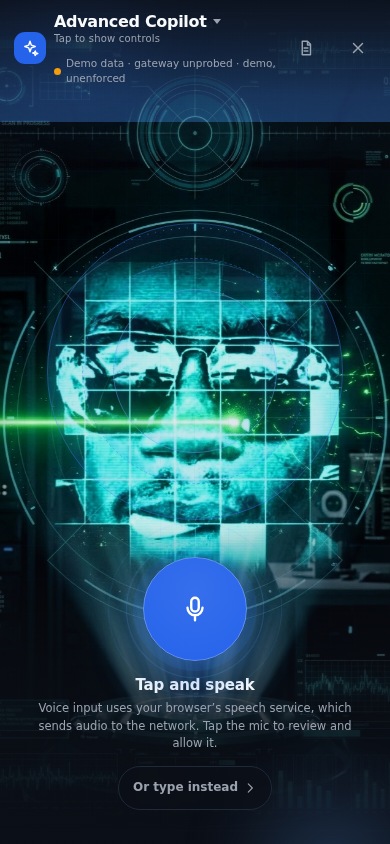
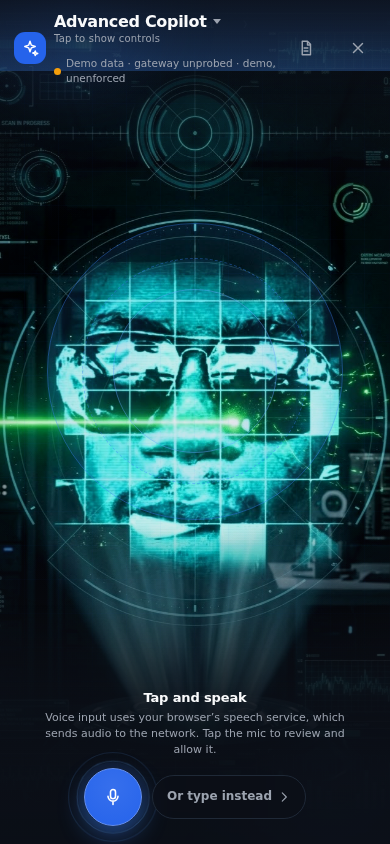
fix(copilot): shrink the stage mic and set it beside 'Or type instead'
The central microphone sat over the hologram at 104px (120px wide screens),
directly on the image's focal point. It now anchors the bottom of the stage:

- 58px (68px at >=720px), still >=44px touch target
- lives in a new .cp-voice-row flex row, side by side with the 'Or type
  instead' link instead of stacked above it
- dock bottom offset 34px -> 18px, icon 30 -> 20, halo/shadow scaled down
- caption keeps priority above the row at 13px/11px with a soft gradient
  scrim behind the dock so it stays legible over the brightest part of
  the image without boxing the stage in

Tests: design-system asserts the mic stays 44-64px and the row is
horizontal; motion asserts the mic and link share the row while the
caption stays outside it; the motion browser suite asserts at 320px that
mic and link are on one line (centres within 8px, mic left of the link)
and never overflow. Regenerated docs/design/copilot-stage-390.png.

Verified: npm test green (design 14/14, motion 22/22, responsive 17/17,
voice 48/48, smoke ok), motion/scroll/relay/voice browser suites pass,
npm run build clean.

Changed region(s): [[0.0923, 0.6469, 0.9231, 1.0], [0.0, 0.0616, 1.0, 0.154], [0.7077, 0.955, 0.9846, 1.0]]

diff --git a/src/copilot.css b/src/copilot.css
@@ -224,43 +224,69 @@
 .cp-panel[data-view='advanced'] .cp-holo-image { opacity: 0.32; }
 .cp-panel[data-view='advanced'] .cp-holo-ring { opacity: 0.28; }
 
-/* ---------- voice dock: the mic, on the stage ---------- */
+/* ---------- voice dock: the mic, set low so it never covers the hologram ----------
+ * The mic used to sit centred over the image at 104 px. It now anchors the bottom of the stage at
+ * 58 px and shares a row with the "Or type instead" link, so the hologram stays unobstructed. */
 .cp-voice-dock {
   position: absolute;
   z-index: 3;
   left: 0; right: 0;
-  bottom: calc(env(safe-area-inset-bottom, 0px) + 34px);
+  bottom: calc(env(safe-area-inset-bottom, 0px) + 18px);
   display: flex;
   flex-direction: column;
   align-items: center;
-  gap: 14px;
+  gap: 10px;
   padding: 0 20px;
   pointer-events: none;
 }
+.cp-voice-dock > * { position: relative; }
 .cp-voice-dock > * { pointer-events: auto; }
+/* Soft scrim so the caption keeps AA contrast where the hologram is brightest, without boxing the
+ * stage in. It lives inside the dock's stacking context, so it never covers the controls. */
+.cp-voice-dock::before {
+  content: '';
+  position: absolute;
+  left: 0; right: 0; bottom: -18px; top: -84px;
+  z-index: -1;
+  pointer-events: none;
+  background: linear-gradient(
+    to bottom,
+    transparent 0%,
+    color-mix(in srgb, var(--bg-base) 62%, transparent) 42%,
+    color-mix(in srgb, var(--bg-base) 88%, transparent) 78%,
+    color-mix(in srgb, var(--bg-base) 94%, transparent) 100%
+  );
+}
+.cp-voice-row {
+  display: flex;
+  align-items: center;
+  justify-content: center;
+  gap: 10px;
+}
 .cp-panel[data-view='advanced'] .cp-voice-dock { display: none; }
 
 .cp-mic {
   position: relative;
-  width: 104px; height: 104px;
+  width: 58px; height: 58px;
+  flex: none;
   border-radius: 50%;
   display: grid;
   place-items: center;
   color: var(--text-on-accent);
   background: radial-gradient(circle at 50% 32%, color-mix(in srgb, var(--accent-hover) 92%, var(--text-primary)), var(--accent-hover));
   border: 1px solid color-mix(in srgb, var(--accent-hover) 70%, var(--text-primary));
-  box-shadow: 0 18px 48px color-mix(in srgb, var(--accent-primary) 55%, transparent),
-              0 0 0 10px color-mix(in srgb, var(--accent-primary) 12%, transparent);
+  box-shadow: 0 10px 26px color-mix(in srgb, var(--accent-primary) 42%, transparent),
+              0 0 0 6px color-mix(in srgb, var(--accent-primary) 10%, transparent);
   touch-action: manipulation;
 }
 .cp-mic-ico { position: relative; z-index: 2; display: grid; place-items: center; }
 .cp-mic-halo {
-  position: absolute; inset: -14px; border-radius: 50%;
+  position: absolute; inset: -7px; border-radius: 50%;
   border: 1px solid color-mix(in srgb, var(--accent-secondary) 60%, transparent);
   animation: cp-halo 3.2s ease-out infinite;
 }
 .cp-mic-halo::after {
-  content: ''; position: absolute; inset: -18px; border-radius: 50%;
+  content: ''; position: absolute; inset: -9px; border-radius: 50%;
   border: 1px solid color-mix(in srgb, var(--accent-secondary) 34%, transparent);
 }
 @keyframes cp-halo {
@@ -268,20 +294,20 @@
   70% { transform: scale(1.08); opacity: 0.25; }
   100% { transform: scale(1.08); opacity: 0.25; }
 }
-.cp-mic-wave { position: absolute; inset: 0; display: none; align-items: center; justify-content: center; gap: 4px; z-index: 2; }
-.cp-mic-wave i { width: 3px; height: 12px; border-radius: 2px; background: var(--text-on-accent); animation: cp-wave 0.9s ease-in-out infinite; }
+.cp-mic-wave { position: absolute; inset: 0; display: none; align-items: center; justify-content: center; gap: 3px; z-index: 2; }
+.cp-mic-wave i { width: 2.5px; height: 9px; border-radius: 2px; background: var(--text-on-accent); animation: cp-wave 0.9s ease-in-out infinite; }
 .cp-mic-wave i:nth-child(2) { animation-delay: 0.1s; }
 .cp-mic-wave i:nth-child(3) { animation-delay: 0.2s; }
 .cp-mic-wave i:nth-child(4) { animation-delay: 0.3s; }
 .cp-mic-wave i:nth-child(5) { animation-delay: 0.4s; }
-@keyframes cp-wave { 0%, 100% { height: 8px; } 50% { height: 26px; } }
-.cp-mic[data-state='listening'] { box-shadow: 0 18px 52px color-mix(in srgb, var(--state-error) 55%, transparent), 0 0 0 12px color-mix(in srgb, var(--state-error) 16%, transparent); }
+@keyframes cp-wave { 0%, 100% { height: 6px; } 50% { height: 18px; } }
+.cp-mic[data-state='listening'] { box-shadow: 0 10px 30px color-mix(in srgb, var(--state-error) 55%, transparent), 0 0 0 8px color-mix(in srgb, var(--state-error) 16%, transparent); }
 .cp-mic[data-state='listening'] .cp-mic-ico { opacity: 0; }
 .cp-mic[data-state='listening'] .cp-mic-wave { display: flex; }
 
-.cp-stage-caption { text-align: center; max-width: 34ch; display: grid; gap: 4px; }
-.cp-stage-caption strong { font-size: 15px; font-weight: 800; letter-spacing: -0.01em; }
-.cp-stage-caption span { font-size: 11.5px; line-height: 1.5; color: var(--text-2); }
+.cp-stage-caption { text-align: center; max-width: 34ch; display: grid; gap: 2px; }
+.cp-stage-caption strong { font-size: 13px; font-weight: 800; letter-spacing: -0.01em; }
+.cp-stage-caption span { font-size: 11px; line-height: 1.45; color: var(--text-2); }
 .cp-stage-link {
   display: inline-flex; align-items: center; gap: 5px;
   min-height: 44px; padding: 0 14px; border-radius: 999px;
@@ -552,6 +578,6 @@ button.cp-chip:active { background: var(--elevated); }
  * Still full screen (immersive), just with a wider reading column and a larger stage. */
 @media (min-width: 720px) {
   .cp-body { padding-left: max(0px, calc((100vw - 760px) / 2)); padding-right: max(0px, calc((100vw - 760px) / 2)); }
-  .cp-stage-caption strong { font-size: 17px; }
-  .cp-mic { width: 120px; height: 120px; }
+  .cp-stage-caption strong { font-size: 14px; }
+  .cp-mic { width: 68px; height: 68px; }
 }

diff --git a/src/copilot/panel.js b/src/copilot/panel.js
@@ -133,17 +133,19 @@ function panelHTML() {
       </header>
 
       <div class="cp-voice-dock" id="cp-voice-dock">
-        <button class="cp-mic" data-cp="voice" data-holo="mic" aria-pressed="false"
-                aria-label="${voiceSupported ? 'Speak to Copilot' : 'Voice capture is unavailable in this browser'}">
-          <span class="cp-mic-halo" aria-hidden="true"></span>
-          <span class="cp-mic-ico" aria-hidden="true">${icon('mic', 30)}</span>
-          <span class="cp-mic-wave" aria-hidden="true"><i></i><i></i><i></i><i></i><i></i></span>
-        </button>
         <div class="cp-stage-caption" data-holo="caption">
           <strong>${session.voiceStatus ? 'Voice input' : 'Tap and speak'}</strong>
           <span id="cp-voice-status" role="status" aria-live="polite">${esc(session.voiceStatus || voiceStatusText())}</span>
         </div>
-        <button class="cp-stage-link" data-cp="toggle-advanced">Or type instead ${icon('right', 14)}</button>
+        <div class="cp-voice-row">
+          <button class="cp-mic" data-cp="voice" data-holo="mic" aria-pressed="false"
+                  aria-label="${voiceSupported ? 'Speak to Copilot' : 'Voice capture is unavailable in this browser'}">
+            <span class="cp-mic-halo" aria-hidden="true"></span>
+            <span class="cp-mic-ico" aria-hidden="true">${icon('mic', 20)}</span>
+            <span class="cp-mic-wave" aria-hidden="true"><i></i><i></i><i></i><i></i><i></i></span>
+          </button>
+          <button class="cp-stage-link" data-cp="toggle-advanced">Or type instead ${icon('right', 14)}</button>
+        </div>
       </div>
 
       <div class="cp-body" id="cp-body">

diff --git a/docs/design/MOTION_SOUND_GESTURES.md b/docs/design/MOTION_SOUND_GESTURES.md
@@ -156,6 +156,10 @@ Details that matter:
 - **pointer swipe** runs `ag-researcher` and a second swipe stops it
 - 320 px: no page overflow, swipe layers contained, card ≥44 px
 - 320 px: the immersive stage fits, mic and "type instead" link stay ≥44 px and inside the viewport
+- 320 / 390 / 1440 px: the mic is **58 px** (68 px ≥720 px), sits on the same row as "type instead"
+  (centres within 8 px, mic strictly left of the link) and the dock bottom stays inside the viewport.
+  It used to be a 104 px disc centred over the hologram; it now anchors the stage bottom so the image
+  is unobstructed.
 - `prefers-reduced-motion` disables animation and applies the end state immediately
 - no page errors
 
@@ -167,7 +171,7 @@ full-screen overlay and re-passed.
 
 | Screen | File |
 | --- | --- |
-| Immersive stage: hologram, rings, central mic, consent/mic caption | `docs/design/copilot-stage-390.png` |
+| Immersive stage: hologram, rings, low mic beside the “type instead” link, caption above | `docs/design/copilot-stage-390.png` |
 | Advanced surface: modes, answer card with sources, composer | `docs/design/copilot-advanced-390.png` |
 
 The stage screenshot is the blank → hologram resolved state at 390 px; the advanced shot is after
